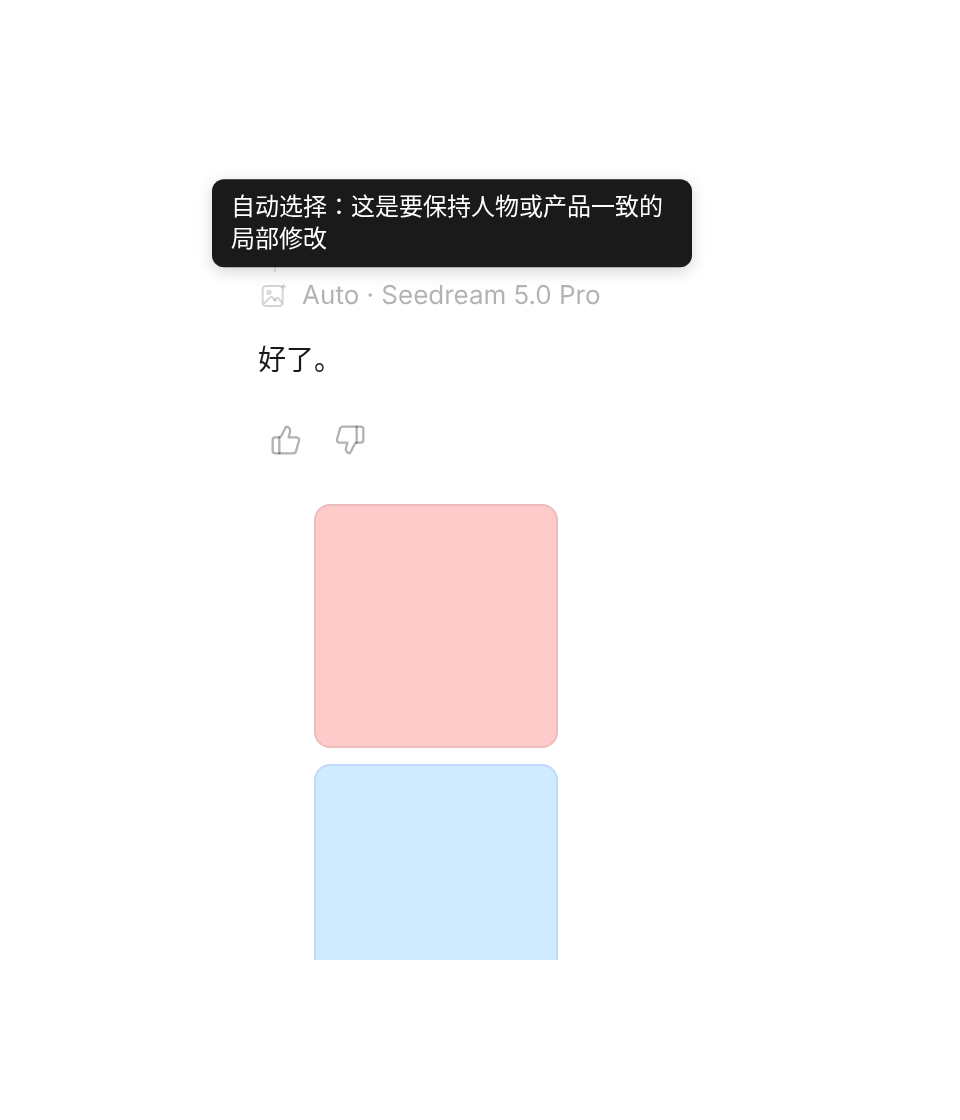
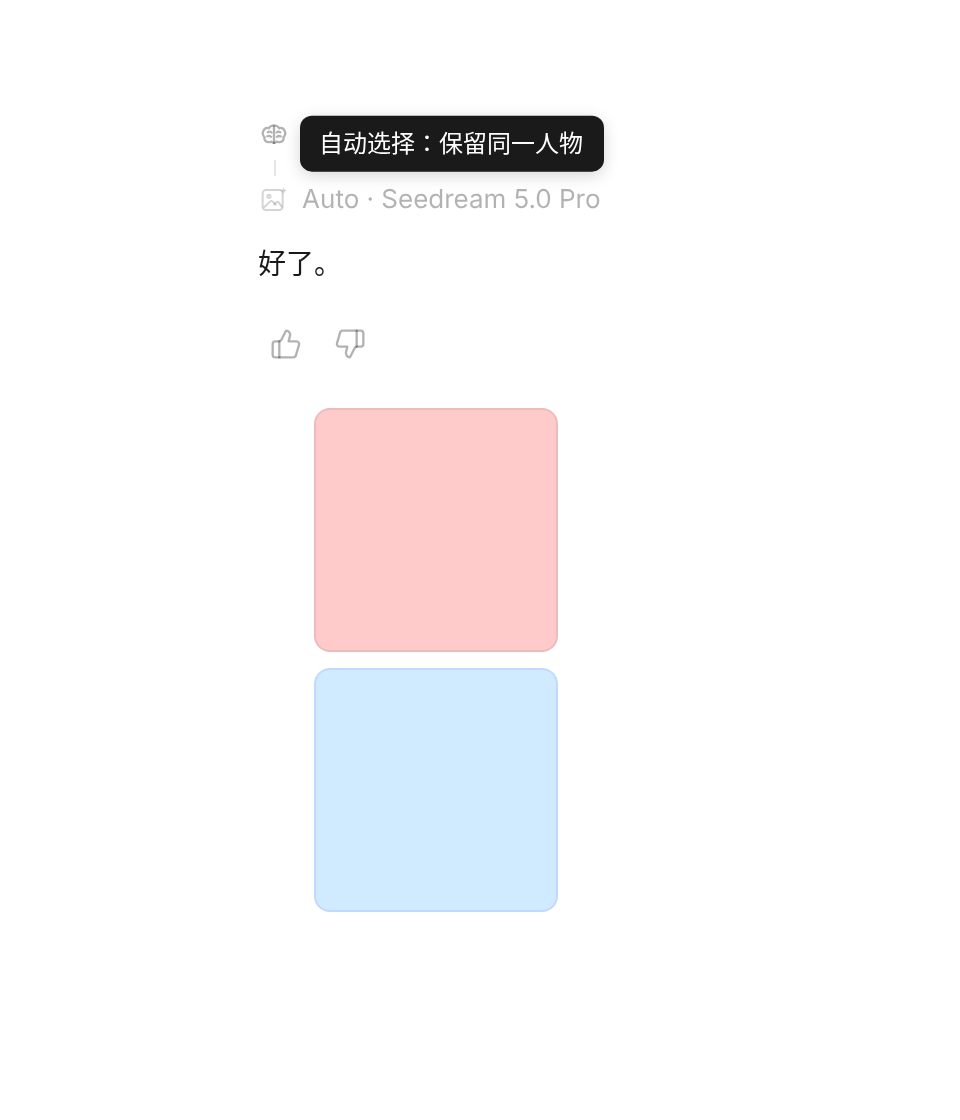
fix(#825): short Auto hover tips for keep_identity and keep_product
Design HOLD: keep_identity hovers 「自动选择：保留同一人物」 / "keep the same person";
keep_product hovers 「自动选择：保留商品不变」 / "keep the product unchanged".
Same short-tip pattern as 写实人物 and 产品摄影. Tests and $0 hover shots updated.

Refs #825.

Changed region(s): [[0.2188, 0.0938, 0.7188, 0.4688], [0.3125, 0.5625, 0.5938, 0.6875], [0.3125, 0.8125, 0.5938, 0.875]]

diff --git a/tests/js/pill825/main.tsx b/tests/js/pill825/main.tsx
@@ -221,7 +221,7 @@ const cases: Record<string, { width?: number; msg: any; live?: boolean; thumbs?:
         use('g1', 'mcp__comfyart__edit_image', { prompt: '保留同一个人，只把衣服换成深色西装、背景换成办公室' }),
         res('g1', 'mcp__comfyart__edit_image', choice({
           model: seedreamEdit, auto: true, category: 'keep_identity',
-          reason: { zh: '这是要保持人物或产品一致的局部修改', en: 'this is a local edit that must keep the person or product consistent' },
+          reason: { zh: '保留同一人物', en: 'keep the same person' },
         })),
         { type: 'text', text: lang === 'en' ? 'Done.' : '好了。' },
       ],
@@ -236,7 +236,7 @@ const cases: Record<string, { width?: number; msg: any; live?: boolean; thumbs?:
         use('g1', 'mcp__comfyart__edit_image', { prompt: '保留产品，只换背景' }),
         res('g1', 'mcp__comfyart__edit_image', choice({
           model: bananaEdit, auto: true, category: 'keep_product',
-          reason: { zh: '这是要保持人物或产品一致的局部修改', en: 'this is a local edit that must keep the person or product consistent' },
+          reason: { zh: '保留商品不变', en: 'keep the product unchanged' },
         })),
         { type: 'text', text: lang === 'en' ? 'Done.' : '好了。' },
       ],

diff --git a/tests/test_auto_pill_825.py b/tests/test_auto_pill_825.py
@@ -248,6 +248,8 @@ KEEP_IDENTITY_REASON = {
     "zh": "这是要保持人物或产品一致的局部修改",
     "en": "this is a local edit that must keep the person or product consistent",
 }
+KEEP_IDENTITY_TIP = {"zh": "保留同一人物", "en": "keep the same person"}
+KEEP_PRODUCT_TIP = {"zh": "保留商品不变", "en": "keep the product unchanged"}
 KEEP_FACE_PROMPTS = [
     "保留同一个人，换衣服",
     "保留同一个人，只把衣服换成深色西装、背景换成办公室",
@@ -271,11 +273,9 @@ def test_keep_identity_keep_face_prompt_routes_to_seedream_edit(catalog):
         assert choice["auto"] is True, prompt
         assert choice["category"] == "keep_identity", prompt
         assert choice["model"] == SEEDREAM_EDIT, prompt
-        assert choice["reason"] == KEEP_IDENTITY_REASON, prompt
-        assert auto_models.pill_tooltip(choice, "zh") == "自动选择：这是要保持人物或产品一致的局部修改"
-        assert auto_models.pill_tooltip(choice, "en") == (
-            "Auto-picked: this is a local edit that must keep the person or product consistent"
-        )
+        assert choice["reason"] == KEEP_IDENTITY_TIP, prompt
+        assert auto_models.pill_tooltip(choice, "zh") == "自动选择：保留同一人物"
+        assert auto_models.pill_tooltip(choice, "en") == "Auto-picked: keep the same person"
         assert auto_models.pill_label(choice) == "Auto · Seedream 5.0 Pro"
 
 
@@ -287,11 +287,9 @@ def test_keep_product_prompt_routes_to_banana_edit(catalog):
         assert choice["auto"] is True, prompt
         assert choice["category"] == "keep_product", prompt
         assert choice["model"] == NANO_EDIT, prompt
-        assert choice["reason"] == KEEP_IDENTITY_REASON, prompt
-        assert auto_models.pill_tooltip(choice, "zh") == "自动选择：这是要保持人物或产品一致的局部修改"
-        assert auto_models.pill_tooltip(choice, "en") == (
-            "Auto-picked: this is a local edit that must keep the person or product consistent"
-        )
+        assert choice["reason"] == KEEP_PRODUCT_TIP, prompt
+        assert auto_models.pill_tooltip(choice, "zh") == "自动选择：保留商品不变"
+        assert auto_models.pill_tooltip(choice, "en") == "Auto-picked: keep the product unchanged"
         assert auto_models.pill_label(choice) == "Auto · Nano Banana 2.1"
 
 
@@ -302,11 +300,12 @@ def test_keep_identity_wins_when_prompt_has_person_and_product_words(catalog):
     assert choice["category"] == "keep_identity"
     assert choice["model"] == SEEDREAM_EDIT
     assert auto_models.pill_label(choice) == "Auto · Seedream 5.0 Pro"
-    assert auto_models.pill_tooltip(choice, "zh") == "自动选择：这是要保持人物或产品一致的局部修改"
+    assert auto_models.pill_tooltip(choice, "zh") == "自动选择：保留同一人物"
+    assert auto_models.pill_tooltip(choice, "en") == "Auto-picked: keep the same person"
 
 
 def test_keep_identity_move_leaves_other_auto_rows_unchanged(catalog):
-    """Frozen check: keep_identity (Seedream) then keep_product (Banana). Hover wording stays."""
+    """Frozen check: keep_identity (Seedream) then keep_product (Banana). Short tips are locked."""
     table = auto_models.load_table()
     ie_cats = table["image_edit"]["categories"]
     assert [c["id"] for c in ie_cats] == ["keep_identity", "keep_product", "photo_retouch", "person"]
@@ -315,7 +314,7 @@ def test_keep_identity_move_leaves_other_auto_rows_unchanged(catalog):
     assert keep["id"] == "keep_identity"
     assert keep["model"] == SEEDREAM_EDIT
     assert keep["zh"] == KEEP_IDENTITY_REASON["zh"] and keep["en"] == KEEP_IDENTITY_REASON["en"]
-    assert keep.get("tip") in (None, {}, "")
+    assert keep["tip"] == KEEP_IDENTITY_TIP
     assert keep.get("fallback") in (None, "", [])
     keywords = keep["keywords"]
     for token in ("保留同一个人", "保留脸", "同一个人", "same person", "keep the face", "keep the same"):
@@ -336,7 +335,7 @@ def test_keep_identity_move_leaves_other_auto_rows_unchanged(catalog):
     assert product["id"] == "keep_product"
     assert product["model"] == NANO_EDIT
     assert product["zh"] == KEEP_IDENTITY_REASON["zh"] and product["en"] == KEEP_IDENTITY_REASON["en"]
-    assert product.get("tip") in (None, {}, "")
+    assert product["tip"] == KEEP_PRODUCT_TIP
     assert product.get("fallback") in (None, "", [])
     assert product["keywords"] == product_keywords
 

diff --git a/docs/qa/825-keepface-route/shoot_lr.py b/docs/qa/825-keepface-route/shoot_lr.py
@@ -17,10 +17,9 @@ FONT = ImageFont.truetype("/usr/share/fonts/opentype/noto/NotoSansCJK-Regular.tt
 FONT_B = ImageFont.truetype("/usr/share/fonts/opentype/noto/NotoSansCJK-Bold.ttc", 22)
 VP = {"width": 440, "height": 520}
 HOVER_VP = {"width": 480, "height": 560}
-KEEP_HOVER = "自动选择：这是要保持人物或产品一致的局部修改"
 
 
-def _shot(browser, base, name, case, expected, *, hover=False, vp=None):
+def _shot(browser, base, name, case, expected, *, hover=False, vp=None, expected_tip=None):
     page = browser.new_page(viewport=vp or VP, device_scale_factor=2)
     page.route("**/*", lambda r: r.continue_() if r.request.url.startswith(base) else r.abort())
     page.goto(f"{base}/index.html?case={case}&lang=zh&theme=light")
@@ -31,7 +30,7 @@ def _shot(browser, base, name, case, expected, *, hover=False, vp=None):
         page.evaluate(
             """() => {
               const root = document.querySelector('.ca-root');
-              if (root) root.style.paddingTop = '88px';
+              if (root) root.style.paddingTop = '40px';
               // Hide the harness case caption so it doesn't peek out behind the tip.
               const cap = root && root.firstElementChild;
               if (cap && cap.style && cap.textContent.includes('·')) cap.style.visibility = 'hidden';
@@ -48,7 +47,8 @@ def _shot(browser, base, name, case, expected, *, hover=False, vp=None):
         tip = page.locator(".ca-tip")
         assert tip.count() == 1, f"{case}: expected 1 .ca-tip, got {tip.count()}"
         tip_text = tip.inner_text().strip()
-        assert tip_text == KEEP_HOVER, f"{case}: tip {tip_text!r}"
+        assert expected_tip, f"{case}: hover shot needs expected_tip"
+        assert tip_text == expected_tip, f"{case}: tip {tip_text!r}"
         geom = tip.evaluate(
             "e => ({ sw: e.scrollWidth, cw: e.clientWidth, sh: e.scrollHeight, ch: e.clientHeight })"
         )
@@ -108,10 +108,12 @@ def main() -> None:
         ident = _shot(
             browser, base, "02-hover-keep-identity", "keepface",
             "Auto · Seedream 5.0 Pro", hover=True, vp=HOVER_VP,
+            expected_tip="自动选择：保留同一人物",
         )
         product = _shot(
             browser, base, "03-hover-keep-product", "keepproduct",
             "Auto · Nano Banana 2.1", hover=True, vp=HOVER_VP,
+            expected_tip="自动选择：保留商品不变",
         )
         browser.close()
     srv.shutdown()
